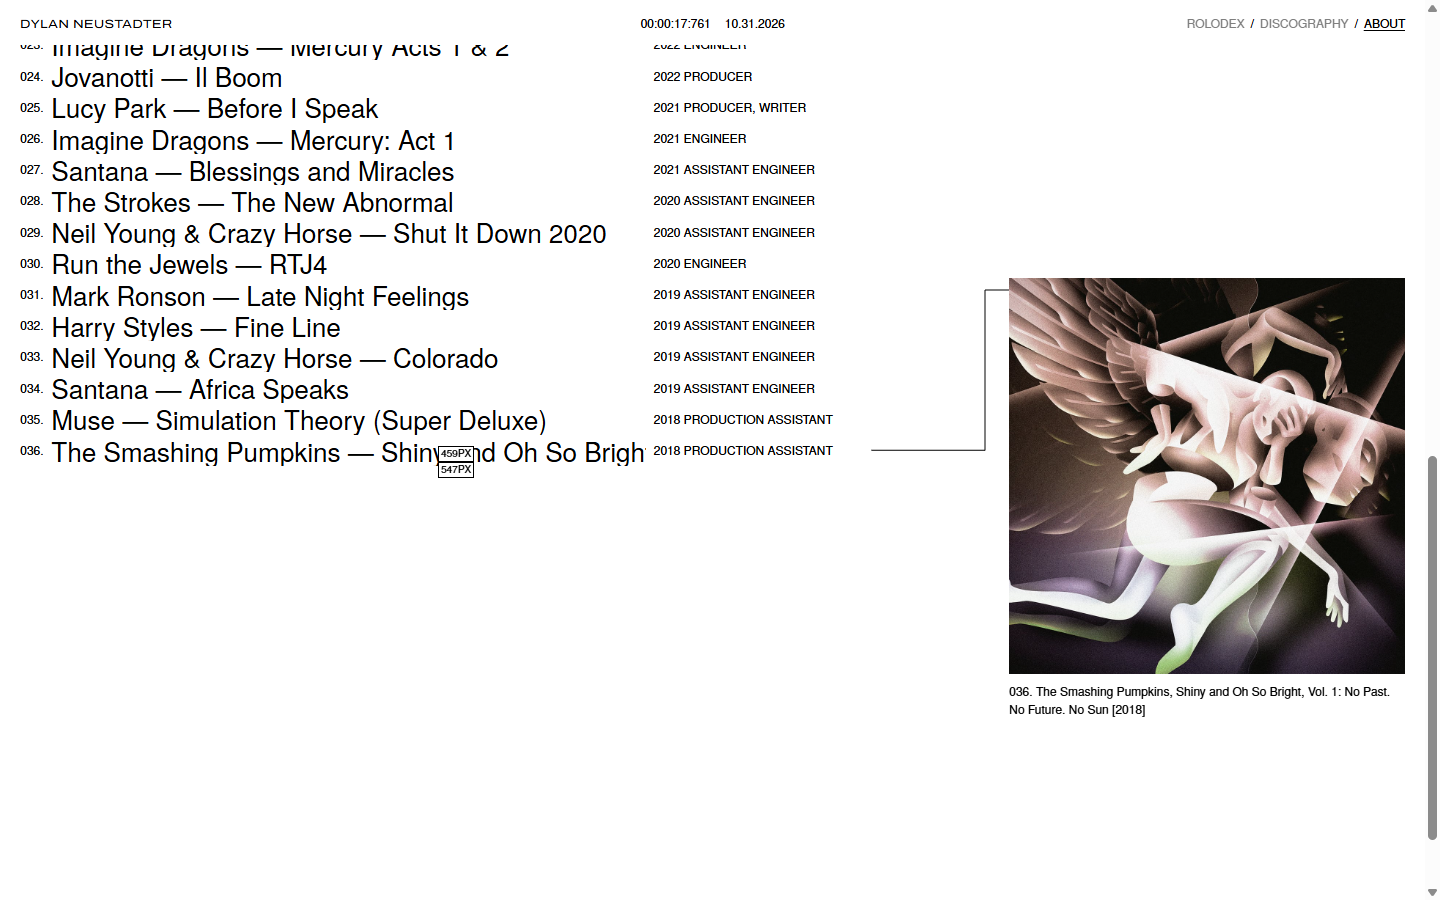
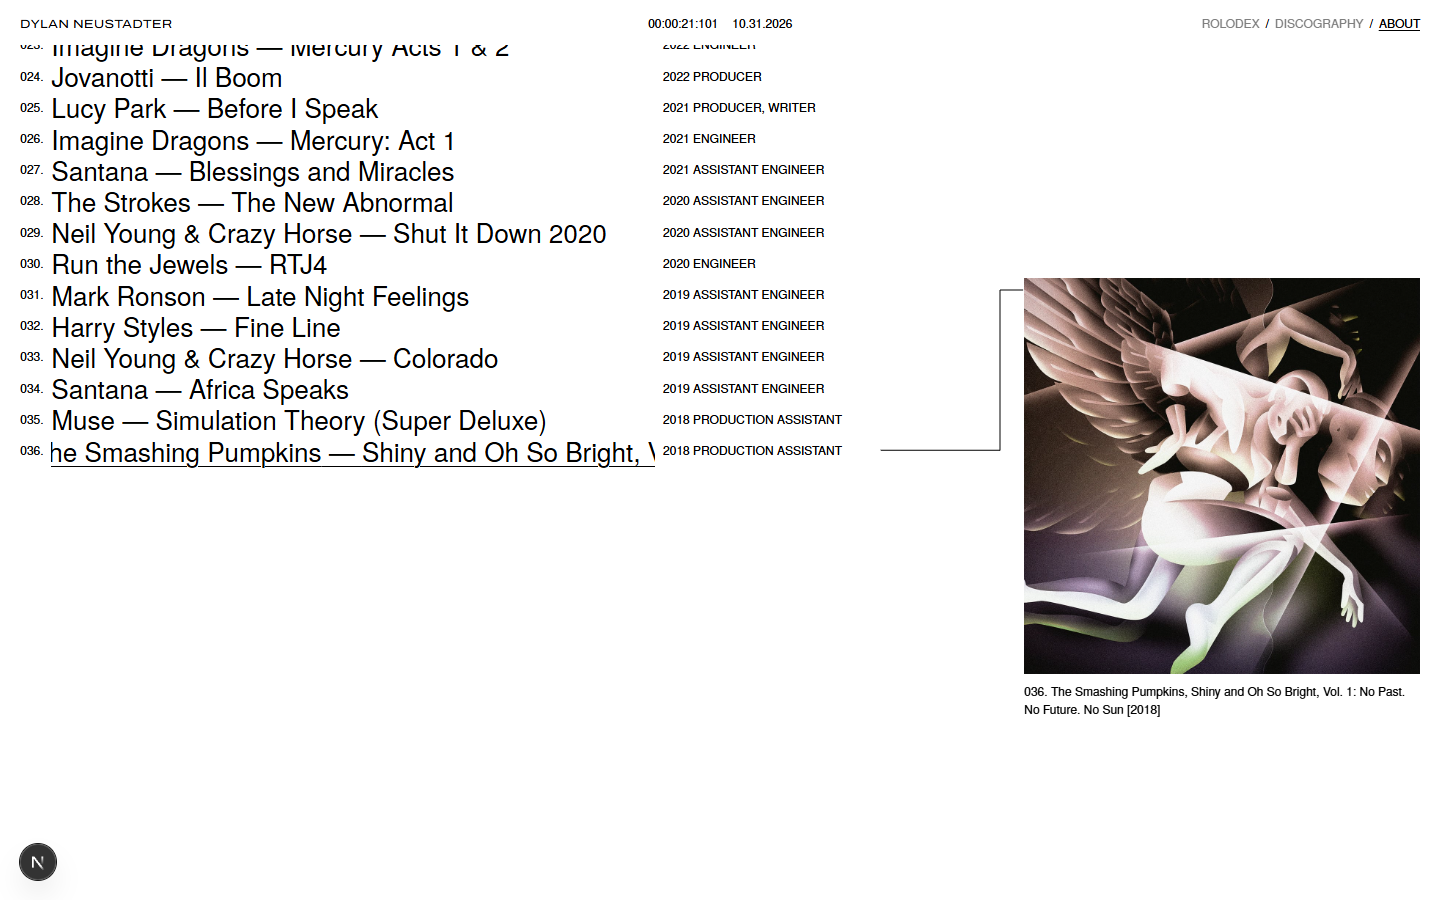
fix(gillenwebsite): the About underline shows again on phones
The title box clipped both axes, and on the 22 px phone line the underline (1px, 4px
under the text, the rule from 9fc4e18) fell outside it. It now clips sideways only, and
the year/role line sits 4 px lower so the line clears it. about-index.mjs reads the
drawn line from the pixels: one entry at every scroll position, a new one every 200 px
on phones, as wide as the title text.

diff --git a/components/gillenwebsite/site.module.css b/components/gillenwebsite/site.module.css
@@ -209,7 +209,8 @@
 .index { width: 62%; padding: 28px 20px 50vh; }
 /* every title one line at one size: number | title | a fixed column for year and role, so nothing collides */
 .indexRow { display: grid; grid-template-columns: auto minmax(0, 1fr) 210px; column-gap: 8px; align-items: baseline; font-size: 26px; line-height: 31.2px; }
-.indexTitle { white-space: nowrap; overflow: hidden; text-overflow: ellipsis; container-type: inline-size; }
+/* clipped sideways only, so the underline (4 px under the text) shows below the 22 px phone line */
+.indexTitle { white-space: nowrap; overflow-x: clip; text-overflow: ellipsis; container-type: inline-size; }
 .root .indexRow:hover { opacity: 1; }
 .indexNo, .indexMeta { font-size: 12px; line-height: 1.2; position: relative; top: -0.55em; }
 .indexNo { white-space: nowrap; }
@@ -254,7 +255,7 @@
   .index { width: 100%; padding: 20px 16px 60vh; }
   /* phones: the number in front of the title, the year and role on their own small line under it */
   .indexRow { grid-template-columns: auto minmax(0, 1fr); font-size: 17px; line-height: 22px; padding-bottom: 6px; }
-  .indexMeta { grid-column: 2; font-size: 11px; line-height: 13px; top: 0; }
+  .indexMeta { grid-column: 2; font-size: 11px; line-height: 13px; top: 0; margin-top: 4px; }
   .indexOn .indexTitle { text-overflow: clip; }
   .indexOn .indexTitleText { display: inline-block; animation: titleRun 100s linear forwards; }
   .indexCover { top: auto; bottom: 16px; right: 16px; width: 34vw; }
